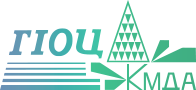
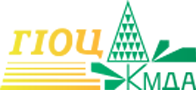
Смена логотипа на вариант с жёлтым цветом

diff --git a/src/less/style.less b/src/less/style.less
@@ -268,13 +268,21 @@ header {
     .top-line {
         & > .inner {
             .inner-global; height:@header-height;
-            .logo { .size(391,67); position:absolute; top:5px; left:33px; background-image:url("@{images}/logo-header.png?v3"); }
+            .logo {
+                .size(367, 67);
+                background-image: url("@{images}/logo-header.png");
+                left: 33px;
+                position: absolute;
+                top: 5px;
+            }
+            
             .phone-block {
-                display:block;
-                position:absolute;
-                top:18px;
-                left:550px;
-                padding-left:38px;
+                display: block;
+                left: 540px;
+                padding-left: 38px;
+                position: absolute;
+                top: 18px;
+                
                 .phone-icon { display:block; left:0; top:5px; position:absolute; .size(27); z-index:9; background-image:data-uri("@{images}/h/__phone.png"); }
                 .tel {
                     text-decoration:none;
